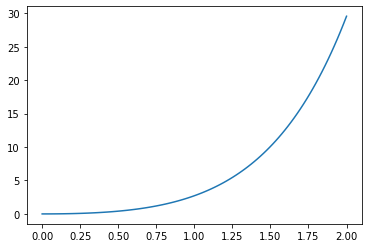
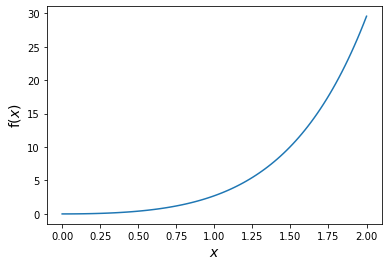
Added labels to figure

diff --git a/docs/source/tutorial.rst b/docs/source/tutorial.rst
@@ -136,6 +136,8 @@ Let’s plot the function briefly.
 
     points = torch.linspace(0,2,100)
     plt.plot(points.cpu(),f(points).cpu()) # Note that for plotting we have to move the values to the CPU first
+    plt.xlabel("$x$",fontsize=14)
+    plt.ylabel("f($x$)",fontsize=14)
 
 
 
